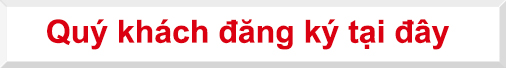
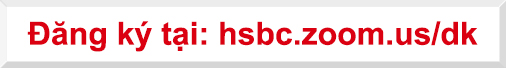
fix

Changed region(s): [[0.0296, 0.2647, 0.9486, 0.7647], [0.1779, 0.2647, 0.2075, 0.3529]]

diff --git a/source/index_vn.html b/source/index_vn.html
@@ -67,13 +67,13 @@ html {
                       <td height="40" style="padding: 0; margin: 0; border: none; line-height: 1.3; font-size: 16px; font-family: Arial, Helvetica, sans-serif !important;"><img src="image/chs_img_square.png" width="40" height="auto" alt="" style="display: block"/></td>
                     </tr>
                     <tr>
-                      <td style="padding: 0; margin: 0; border: none; line-height: 1.3; font-size: 30px; font-family: Arial, Helvetica, sans-serif !important;">Đối Mặt Với Rủi Ro Gian Lận Lừa Đảo Trên Không Gian Mạng: Trò chuyện với chuyên gia Hiếu PC và HSBC</td>
+                      <td style="padding: 0; margin: 0; border: none; line-height: 1.3; font-size: 30px; font-family: Arial, Helvetica, sans-serif !important;">Webinar - Trò chuyện với chuyên gia <span style="display: inline-block; white-space: nowrap">Hiếu PC và HSBC</span></td>
                     </tr>
                     <tr>
                       <td style="padding: 0; margin: 0; border: none; line-height: 1.3; font-size: 16px; font-family: Arial, Helvetica, sans-serif !important;">&nbsp;</td>
                     </tr>
                     <tr>
-                      <td style="padding: 0; margin: 0; border: none; line-height: 1.3; font-size: 16px; font-family: Arial, Helvetica, sans-serif !important;">Trong bối cảnh tội phạm mạng ngày càng tinh vi, HSBC phối hợp cùng Hiếu PC – chuyên gia an ninh mạng, tổ chức buổi chia sẻ trực tuyến đặc biệt dành cho Quý khách hàng với chủ đề <strong>&quot;Đối Mặt Với Rủi Ro Gian Lận Lừa Đảo Trên Không Gian Mạng: Trò chuyện với chuyên gia Hiếu PC và HSBC&quot;</strong></td>
+                      <td style="padding: 0; margin: 0; border: none; line-height: 1.3; font-size: 16px; font-family: Arial, Helvetica, sans-serif !important;">Trong bối cảnh tội phạm mạng ngày càng tinh vi, HSBC phối hợp cùng Hiếu PC - chuyên gia an ninh mạng, tổ chức buổi chia sẻ trực tuyến đặc biệt dành cho Quý khách hàng với chủ đề <strong>&quot;Đối Mặt Với Rủi Ro Gian Lận Lừa Đảo Trên Không Gian Mạng&quot;</strong>.</td>
                     </tr>
                     <tr>
                       <td height="40" style="padding: 0; margin: 0; border: none; line-height: 1.3; font-size: 16px; font-family: Arial, Helvetica, sans-serif !important;"><img src="image/chs_img_square.png" width="40" height="auto" alt="" style="display: block"/></td>
@@ -102,10 +102,10 @@ html {
                           <tr>
                             <td align="left" bgcolor="#db0011" style="margin: 0; padding: 0; border: none; font-family: Arial, Helvetica, sans-serif !important; font-size: 16px; line-height: 1.3; color: #000000;"><table width="100%" border="0" cellpadding="0" cellspacing="0" class="chs_body">
                                 <tr>
-                                  <td width="200" align="left" valign="top" style="margin: 0; padding: 0; border: none; font-family: Arial, Helvetica, sans-serif !important; font-size: 16px; line-height: 1.3; color: #000000;"><img src="image/chs_box_2.jpg" width="200" height="auto" alt="" style="display: block"/></td>
+                                  <td width="200" align="left" valign="top" style="margin: 0; padding: 0; border: none; font-family: Arial, Helvetica, sans-serif !important; font-size: 16px; line-height: 1.3; color: #000000;"><img src="image/chs_box_2.jpg" width="200" height="155" alt="" style="display: block"/></td>
                                   <td align="left" valign="top" style="margin: 0; padding: 0; border: none; font-family: Arial, Helvetica, sans-serif !important; font-size: 16px; line-height: 1.3; color: #000000;"><table width="100%" border="0" cellpadding="0" cellspacing="0" class="chs_body">
                                       <tr>
-                                        <td align="left" style="margin: 0; padding: 15px 0 0 0; border: none; font-family: Arial, Helvetica, sans-serif !important; font-size: 14px; line-height: 1.3; color: #FFFFFF;">Đăng ký tại: hsbc<span>.</span>zoom<span>.</span>us/dk</td>
+                                        <td align="left" style="margin: 0; padding: 10px 0 5px 0; border: none; font-family: Arial, Helvetica, sans-serif !important; font-size: 14px; line-height: 1.3; color: #FFFFFF;"><img src="image/chs_box_3.jpg" width="253" height="auto" alt="" style="display: block"/></td>
                                       </tr>
                                       <tr>
                                         <td align="left" style="margin: 0; padding: 0; border: none; font-family: Arial, Helvetica, sans-serif !important; font-size: 11px; line-height: 1.3; color: #FFFFFF;">(Quý khách vui lòng sao chép đường dẫn và dán vào trình duyệt web để đăng ký)</td>
